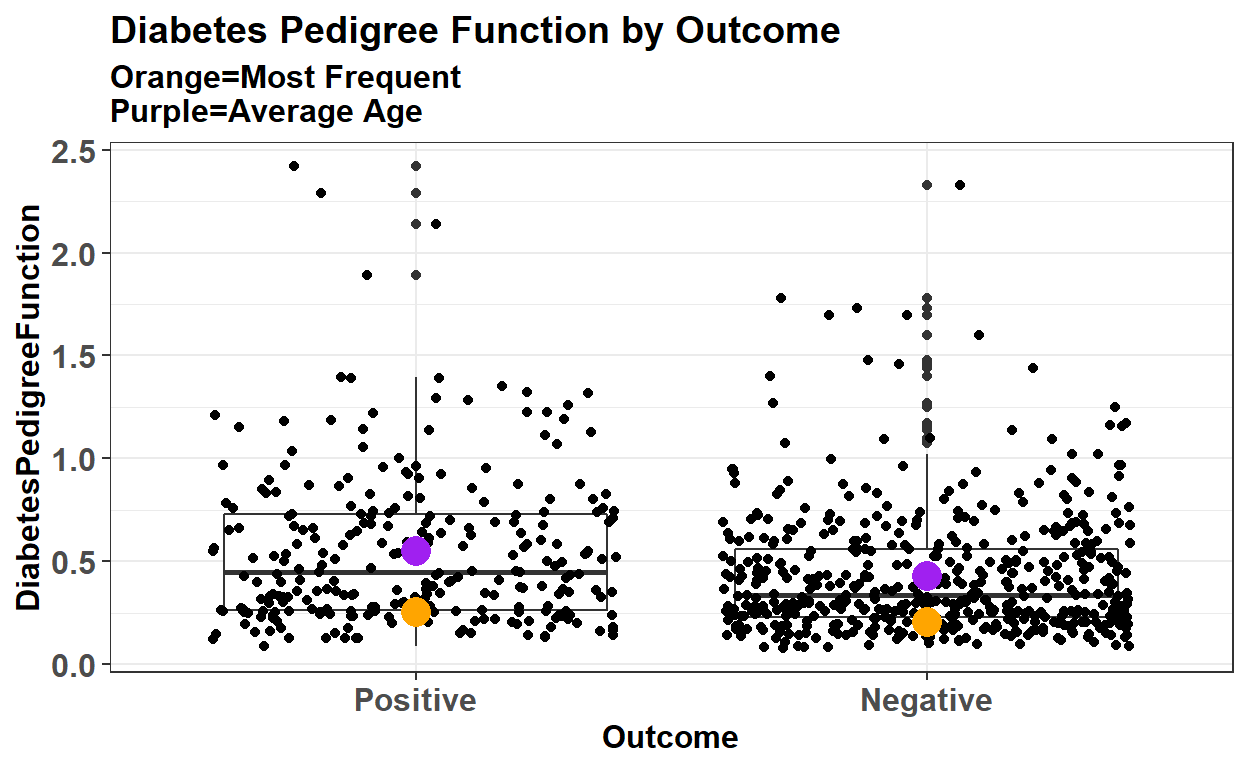
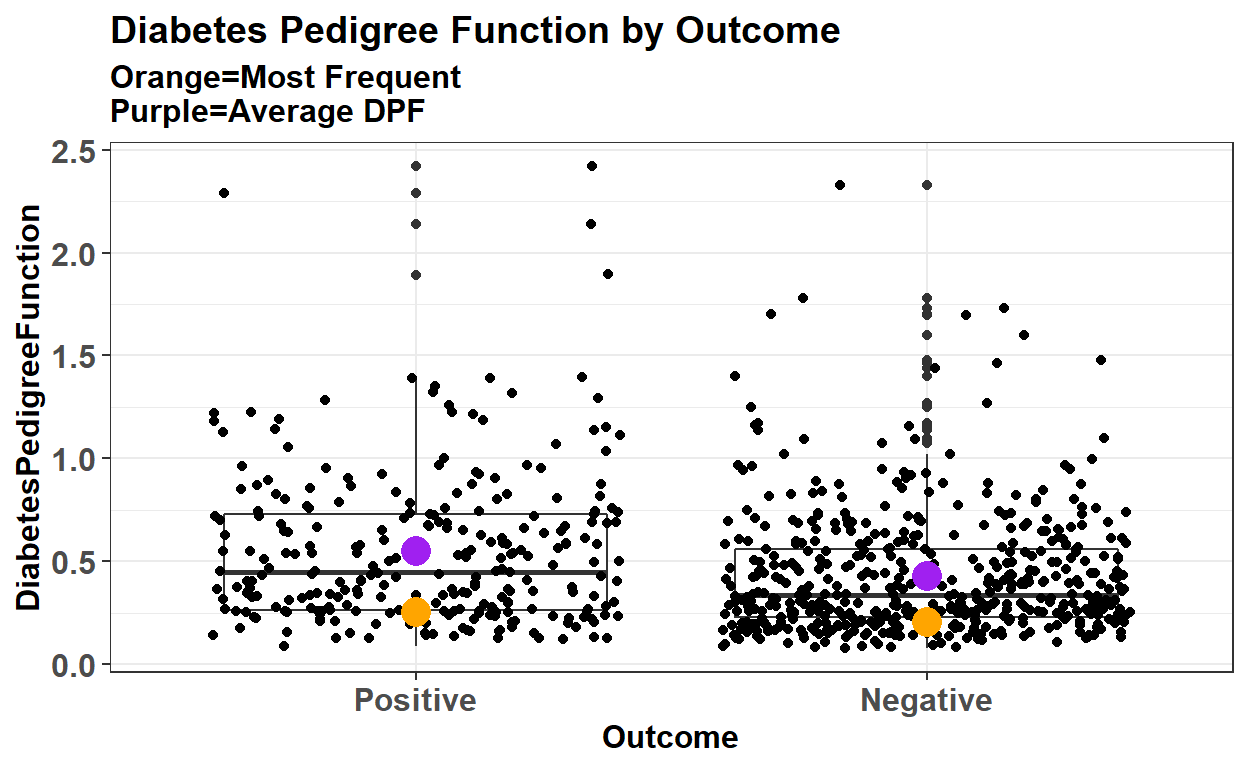
edit
edit code on first post

diff --git a/docs/posts/2018-11-06-diabetes-among-the-pima-indians-an-exploratory-analysis/index.html b/docs/posts/2018-11-06-diabetes-among-the-pima-indians-an-exploratory-analysis/index.html
@@ -21,7 +21,7 @@
   <!--radix_placeholder_meta_tags-->
 <title>Easy Data Science with R and Python: Diabetes Among The Pima Indians: An Exploratory Analysis</title>
 
-<meta property="description" itemprop="description" content="In this post we will explore the Pima Indian dataset from the UCI repository. This post will aim to showcase different ways of thinking of your &#10;data. Most novices to data science would rush into data preprocessing and not explore the data properly. The data cleaning stage can be subjective &#10;at times and here I offer my own view and opinons on this dataset"/>
+<meta property="description" itemprop="description" content="In this post we will explore the Pima Indian dataset from the UCI repository. This post will aim to showcase different ways of thinking of your &#10;data. Most novices to data science would rush into data preprocessing and not explore the data properly. The data cleaning stage can be subjective &#10;at times and here I offer my own view and opinions on this dataset"/>
 
 <link rel="canonical" href="https://aslm123.github.io/easydsrp/posts/2018-11-06-diabetes-among-the-pima-indians-an-exploratory-analysis/"/>
 <link rel="license" href="https://creativecommons.org/licenses/by/4.0/"/>
@@ -34,7 +34,7 @@
 <!--  https://developers.facebook.com/docs/sharing/webmasters#markup -->
 <meta property="og:title" content="Easy Data Science with R and Python: Diabetes Among The Pima Indians: An Exploratory Analysis"/>
 <meta property="og:type" content="article"/>
-<meta property="og:description" content="In this post we will explore the Pima Indian dataset from the UCI repository. This post will aim to showcase different ways of thinking of your &#10;data. Most novices to data science would rush into data preprocessing and not explore the data properly. The data cleaning stage can be subjective &#10;at times and here I offer my own view and opinons on this dataset"/>
+<meta property="og:description" content="In this post we will explore the Pima Indian dataset from the UCI repository. This post will aim to showcase different ways of thinking of your &#10;data. Most novices to data science would rush into data preprocessing and not explore the data properly. The data cleaning stage can be subjective &#10;at times and here I offer my own view and opinions on this dataset"/>
 <meta property="og:url" content="https://aslm123.github.io/easydsrp/posts/2018-11-06-diabetes-among-the-pima-indians-an-exploratory-analysis/"/>
 <meta property="og:image" content="https://aslm123.github.io/easydsrp/posts/2018-11-06-diabetes-among-the-pima-indians-an-exploratory-analysis/diabetes-among-the-pima-indians-an-exploratory-analysis_files/figure-html5/unnamed-chunk-14-1.png"/>
 <meta property="og:image:width" content="1248"/>
@@ -45,7 +45,7 @@
 <!--  https://dev.twitter.com/cards/types/summary -->
 <meta property="twitter:card" content="summary_large_image"/>
 <meta property="twitter:title" content="Easy Data Science with R and Python: Diabetes Among The Pima Indians: An Exploratory Analysis"/>
-<meta property="twitter:description" content="In this post we will explore the Pima Indian dataset from the UCI repository. This post will aim to showcase different ways of thinking of your &#10;data. Most novices to data science would rush into data preprocessing and not explore the data properly. The data cleaning stage can be subjective &#10;at times and here I offer my own view and opinons on this dataset"/>
+<meta property="twitter:description" content="In this post we will explore the Pima Indian dataset from the UCI repository. This post will aim to showcase different ways of thinking of your &#10;data. Most novices to data science would rush into data preprocessing and not explore the data properly. The data cleaning stage can be subjective &#10;at times and here I offer my own view and opinions on this dataset"/>
 <meta property="twitter:url" content="https://aslm123.github.io/easydsrp/posts/2018-11-06-diabetes-among-the-pima-indians-an-exploratory-analysis/"/>
 <meta property="twitter:image" content="https://aslm123.github.io/easydsrp/posts/2018-11-06-diabetes-among-the-pima-indians-an-exploratory-analysis/diabetes-among-the-pima-indians-an-exploratory-analysis_files/figure-html5/unnamed-chunk-14-1.png"/>
 <meta property="twitter:image:width" content="1248"/>
@@ -62,7 +62,7 @@
   <!--radix_placeholder_rmarkdown_metadata-->
 
 <script type="text/json" id="radix-rmarkdown-metadata">
-{"type":"list","attributes":{"names":{"type":"character","attributes":{},"value":["title","description","author","date","output","categories","repository_url","creative_commons","citation_url","canonical_url"]}},"value":[{"type":"character","attributes":{},"value":["Diabetes Among The Pima Indians: An Exploratory Analysis"]},{"type":"character","attributes":{},"value":["In this post we will explore the Pima Indian dataset from the UCI repository. This post will aim to showcase different ways of thinking of your \ndata. Most novices to data science would rush into data preprocessing and not explore the data properly. The data cleaning stage can be subjective \nat times and here I offer my own view and opinons on this dataset"]},{"type":"list","attributes":{},"value":[{"type":"list","attributes":{"names":{"type":"character","attributes":{},"value":["name","url"]}},"value":[{"type":"character","attributes":{},"value":["Asel Mendis"]},{"type":"character","attributes":{},"value":["https://www.linkedin.com/in/asel-mendis-a620399b/"]}]}]},{"type":"character","attributes":{},"value":["11-06-2018"]},{"type":"list","attributes":{"names":{"type":"character","attributes":{},"value":["radix::radix_article"]}},"value":[{"type":"list","attributes":{"names":{"type":"character","attributes":{},"value":["self_contained"]}},"value":[{"type":"logical","attributes":{},"value":[false]}]}]},{"type":"character","attributes":{},"value":["Data Preprocessing","Exploratory Analysis","R"]},{"type":"character","attributes":{},"value":["https://github.com/aslm123/easydsrp"]},{"type":"character","attributes":{},"value":["CC BY"]},{"type":"character","attributes":{},"value":["https://aslm123.github.io/easydsrp/posts/2018-11-06-diabetes-among-the-pima-indians-an-exploratory-analysis/"]},{"type":"character","attributes":{},"value":["https://aslm123.github.io/easydsrp/posts/2018-11-06-diabetes-among-the-pima-indians-an-exploratory-analysis/"]}]}
+{"type":"list","attributes":{"names":{"type":"character","attributes":{},"value":["title","description","author","date","output","categories","repository_url","creative_commons","citation_url","canonical_url"]}},"value":[{"type":"character","attributes":{},"value":["Diabetes Among The Pima Indians: An Exploratory Analysis"]},{"type":"character","attributes":{},"value":["In this post we will explore the Pima Indian dataset from the UCI repository. This post will aim to showcase different ways of thinking of your \ndata. Most novices to data science would rush into data preprocessing and not explore the data properly. The data cleaning stage can be subjective \nat times and here I offer my own view and opinions on this dataset"]},{"type":"list","attributes":{},"value":[{"type":"list","attributes":{"names":{"type":"character","attributes":{},"value":["name","url"]}},"value":[{"type":"character","attributes":{},"value":["Asel Mendis"]},{"type":"character","attributes":{},"value":["https://www.linkedin.com/in/asel-mendis-a620399b/"]}]}]},{"type":"character","attributes":{},"value":["11-06-2018"]},{"type":"list","attributes":{"names":{"type":"character","attributes":{},"value":["radix::radix_article"]}},"value":[{"type":"list","attributes":{"names":{"type":"character","attributes":{},"value":["self_contained"]}},"value":[{"type":"logical","attributes":{},"value":[false]}]}]},{"type":"character","attributes":{},"value":["Data Preprocessing","Exploratory Analysis","R"]},{"type":"character","attributes":{},"value":["https://github.com/aslm123/easydsrp"]},{"type":"character","attributes":{},"value":["CC BY"]},{"type":"character","attributes":{},"value":["https://aslm123.github.io/easydsrp/posts/2018-11-06-diabetes-among-the-pima-indians-an-exploratory-analysis/"]},{"type":"character","attributes":{},"value":["https://aslm123.github.io/easydsrp/posts/2018-11-06-diabetes-among-the-pima-indians-an-exploratory-analysis/"]}]}
 </script>
 <!--/radix_placeholder_rmarkdown_metadata-->
   
@@ -1296,7 +1296,7 @@ gtag('config', 'UA-129818281-1');
 <!--radix_placeholder_front_matter-->
 
 <script id="distill-front-matter" type="text/json">
-{"title":"Diabetes Among The Pima Indians: An Exploratory Analysis","description":"In this post we will explore the Pima Indian dataset from the UCI repository. This post will aim to showcase different ways of thinking of your \ndata. Most novices to data science would rush into data preprocessing and not explore the data properly. The data cleaning stage can be subjective \nat times and here I offer my own view and opinons on this dataset","authors":[{"author":"Asel Mendis","authorURL":"https://www.linkedin.com/in/asel-mendis-a620399b/","affiliation":"&nbsp;","affiliationURL":"#"}],"publishedDate":"2018-11-06T00:00:00.000+11:00","citationText":"Mendis, 2018"}
+{"title":"Diabetes Among The Pima Indians: An Exploratory Analysis","description":"In this post we will explore the Pima Indian dataset from the UCI repository. This post will aim to showcase different ways of thinking of your \ndata. Most novices to data science would rush into data preprocessing and not explore the data properly. The data cleaning stage can be subjective \nat times and here I offer my own view and opinions on this dataset","authors":[{"author":"Asel Mendis","authorURL":"https://www.linkedin.com/in/asel-mendis-a620399b/","affiliation":"&nbsp;","affiliationURL":"#"}],"publishedDate":"2018-11-06T00:00:00.000+11:00","citationText":"Mendis, 2018"}
 </script>
 
 <!--/radix_placeholder_front_matter-->
@@ -1334,7 +1334,7 @@ gtag('config', 'UA-129818281-1');
 
 <div class="d-title">
 <h1>Diabetes Among The Pima Indians: An Exploratory Analysis</h1>
-<p>In this post we will explore the Pima Indian dataset from the UCI repository. This post will aim to showcase different ways of thinking of your data. Most novices to data science would rush into data preprocessing and not explore the data properly. The data cleaning stage can be subjective at times and here I offer my own view and opinons on this dataset</p>
+<p>In this post we will explore the Pima Indian dataset from the UCI repository. This post will aim to showcase different ways of thinking of your data. Most novices to data science would rush into data preprocessing and not explore the data properly. The data cleaning stage can be subjective at times and here I offer my own view and opinions on this dataset</p>
 </div>
 
 <div class="d-byline">
@@ -1630,7 +1630,7 @@ summary(Diabetes$Pregnancies)</code></pre>
 111 657 </code></pre>
 </div>
 <h3 id="insulin">Insulin</h3>
-<p>50% of the rows in Insulin have 0 values. Lets look at it in a practical sense. There are times when the body produces little to no insulin which is a sign on Type 1 Diabetes. But I doubt this is the case in this instance. Insulin is such an important variable concerning Diabetes, but when a variable is just rife with missing values you have to do something about it. You can just impute the values, but this is medical data and half of the values are missing. It would not be appropriate to just impute the rows with it mean in my opininon. That’s why no matter how important it is, it has to be <strong>REMOVED</strong>. This is one of those times where you need to make a tough call.</p>
+<p>50% of the rows in Insulin have 0 values. Lets look at it in a practical sense. There are times when the body produces little to no insulin which is a sign on Type 1 Diabetes. But I doubt this is the case in this instance. Insulin is such an important variable concerning Diabetes, but when a variable is just rife with missing values you have to do something about it. You can just impute the values, but this is medical data and half of the values are missing. It would not be appropriate to just impute the rows with its mean in my opinion. That’s why no matter how important it is, it has to be <strong>REMOVED</strong>. This is one of those times where you need to make a tough call.</p>
 <div class="layout-chunk" data-layout="l-body">
 <pre class="r"><code>
 Diabetes$Insulin &lt;- NULL
@@ -1761,7 +1761,7 @@ str(mode)</code></pre>
 <pre><code>
 function (v)  
  - attr(*, &quot;srcref&quot;)= &#39;srcref&#39; int [1:8] 1 9 4 1 9 1 1 4
-  ..- attr(*, &quot;srcfile&quot;)=Classes &#39;srcfilecopy&#39;, &#39;srcfile&#39; &lt;environment: 0x000000002087cd70&gt; </code></pre>
+  ..- attr(*, &quot;srcfile&quot;)=Classes &#39;srcfilecopy&#39;, &#39;srcfile&#39; &lt;environment: 0x000000002089fb78&gt; </code></pre>
 </div>
 <h1 id="visualisation-of-variables">Visualisation of variables</h1>
 <h2 id="numeric-variables">Numeric Variables</h2>
@@ -1799,7 +1799,7 @@ ggplot(Diabetes, aes(y=DiabetesPedigreeFunction, x=Outcome)) +
       stat_summary(fun.y=mean, colour=&quot;purple&quot;, 
                   geom=&quot;point&quot;, shape=16, size=5) +
       ggtitle(label=&quot;Diabetes Pedigree Function by Outcome&quot;,
-              subtitle = &quot;Orange=Most Frequent\nPurple=Average Age&quot;) +
+              subtitle = &quot;Orange=Most Frequent\nPurple=Average DPF&quot;) +
       theme(axis.text.x = element_text(face=&quot;bold&quot;,size=12),
             axis.text.y = element_text(face=&quot;bold&quot;,size=12),
             title = element_text(face=&quot;bold&quot;,size=12),
@@ -1862,7 +1862,7 @@ Yes
 </tbody>
 </table>
 </div>
-<p>It seems that having a pregnancy does not necessarily increase your chances of having diabetes as the same proportion of women who had or didnt have diabetes had at least one pregnancy.</p>
+<p>It seems that having a pregnancy does not necessarily increase your chances of having diabetes as the same proportion of women who had or didn’t have diabetes had at least one pregnancy.</p>
 <h3 id="obesity">Obesity</h3>
 <div class="layout-chunk" data-layout="l-body">
 

diff --git a/_posts/2018-11-06-diabetes-among-the-pima-indians-an-exploratory-analysis/diabetes-among-the-pima-indians-an-exploratory-analysis.html b/_posts/2018-11-06-diabetes-among-the-pima-indians-an-exploratory-analysis/diabetes-among-the-pima-indians-an-exploratory-analysis.html
@@ -21,7 +21,7 @@
   <!--radix_placeholder_meta_tags-->
   <title>Diabetes Among The Pima Indians: An Exploratory Analysis</title>
   
-  <meta property="description" itemprop="description" content="In this post we will explore the Pima Indian dataset from the UCI repository. This post will aim to showcase different ways of thinking of your &#10;data. Most novices to data science would rush into data preprocessing and not explore the data properly. The data cleaning stage can be subjective &#10;at times and here I offer my own view and opinons on this dataset"/>
+  <meta property="description" itemprop="description" content="In this post we will explore the Pima Indian dataset from the UCI repository. This post will aim to showcase different ways of thinking of your &#10;data. Most novices to data science would rush into data preprocessing and not explore the data properly. The data cleaning stage can be subjective &#10;at times and here I offer my own view and opinions on this dataset"/>
   
   <link rel="license" href="https://creativecommons.org/licenses/by/4.0/"/>
   
@@ -33,19 +33,19 @@
   <!--  https://developers.facebook.com/docs/sharing/webmasters#markup -->
   <meta property="og:title" content="Diabetes Among The Pima Indians: An Exploratory Analysis"/>
   <meta property="og:type" content="article"/>
-  <meta property="og:description" content="In this post we will explore the Pima Indian dataset from the UCI repository. This post will aim to showcase different ways of thinking of your &#10;data. Most novices to data science would rush into data preprocessing and not explore the data properly. The data cleaning stage can be subjective &#10;at times and here I offer my own view and opinons on this dataset"/>
+  <meta property="og:description" content="In this post we will explore the Pima Indian dataset from the UCI repository. This post will aim to showcase different ways of thinking of your &#10;data. Most novices to data science would rush into data preprocessing and not explore the data properly. The data cleaning stage can be subjective &#10;at times and here I offer my own view and opinions on this dataset"/>
   <meta property="og:locale" content="en_US"/>
   
   <!--  https://dev.twitter.com/cards/types/summary -->
   <meta property="twitter:card" content="summary"/>
   <meta property="twitter:title" content="Diabetes Among The Pima Indians: An Exploratory Analysis"/>
-  <meta property="twitter:description" content="In this post we will explore the Pima Indian dataset from the UCI repository. This post will aim to showcase different ways of thinking of your &#10;data. Most novices to data science would rush into data preprocessing and not explore the data properly. The data cleaning stage can be subjective &#10;at times and here I offer my own view and opinons on this dataset"/>
+  <meta property="twitter:description" content="In this post we will explore the Pima Indian dataset from the UCI repository. This post will aim to showcase different ways of thinking of your &#10;data. Most novices to data science would rush into data preprocessing and not explore the data properly. The data cleaning stage can be subjective &#10;at times and here I offer my own view and opinions on this dataset"/>
   
   <!--/radix_placeholder_meta_tags-->
   <!--radix_placeholder_rmarkdown_metadata-->
   
   <script type="text/json" id="radix-rmarkdown-metadata">
-  {"type":"list","attributes":{"names":{"type":"character","attributes":{},"value":["title","description","author","date","output","categories","repository_url","creative_commons"]}},"value":[{"type":"character","attributes":{},"value":["Diabetes Among The Pima Indians: An Exploratory Analysis"]},{"type":"character","attributes":{},"value":["In this post we will explore the Pima Indian dataset from the UCI repository. This post will aim to showcase different ways of thinking of your \ndata. Most novices to data science would rush into data preprocessing and not explore the data properly. The data cleaning stage can be subjective \nat times and here I offer my own view and opinons on this dataset\n"]},{"type":"list","attributes":{},"value":[{"type":"list","attributes":{"names":{"type":"character","attributes":{},"value":["name","url"]}},"value":[{"type":"character","attributes":{},"value":["Asel Mendis"]},{"type":"character","attributes":{},"value":["https://www.linkedin.com/in/asel-mendis-a620399b/"]}]}]},{"type":"character","attributes":{},"value":["11-06-2018"]},{"type":"list","attributes":{"names":{"type":"character","attributes":{},"value":["radix::radix_article"]}},"value":[{"type":"list","attributes":{"names":{"type":"character","attributes":{},"value":["self_contained"]}},"value":[{"type":"logical","attributes":{},"value":[false]}]}]},{"type":"character","attributes":{},"value":["Data Preprocessing","Exploratory Analysis","R"]},{"type":"character","attributes":{},"value":["https://github.com/aslm123/easydsrp"]},{"type":"character","attributes":{},"value":["CC BY"]}]}
+  {"type":"list","attributes":{"names":{"type":"character","attributes":{},"value":["title","description","author","date","output","categories","repository_url","creative_commons"]}},"value":[{"type":"character","attributes":{},"value":["Diabetes Among The Pima Indians: An Exploratory Analysis"]},{"type":"character","attributes":{},"value":["In this post we will explore the Pima Indian dataset from the UCI repository. This post will aim to showcase different ways of thinking of your \ndata. Most novices to data science would rush into data preprocessing and not explore the data properly. The data cleaning stage can be subjective \nat times and here I offer my own view and opinions on this dataset\n"]},{"type":"list","attributes":{},"value":[{"type":"list","attributes":{"names":{"type":"character","attributes":{},"value":["name","url"]}},"value":[{"type":"character","attributes":{},"value":["Asel Mendis"]},{"type":"character","attributes":{},"value":["https://www.linkedin.com/in/asel-mendis-a620399b/"]}]}]},{"type":"character","attributes":{},"value":["11-06-2018"]},{"type":"list","attributes":{"names":{"type":"character","attributes":{},"value":["radix::radix_article"]}},"value":[{"type":"list","attributes":{"names":{"type":"character","attributes":{},"value":["self_contained"]}},"value":[{"type":"logical","attributes":{},"value":[false]}]}]},{"type":"character","attributes":{},"value":["Data Preprocessing","Exploratory Analysis","R"]},{"type":"character","attributes":{},"value":["https://github.com/aslm123/easydsrp"]},{"type":"character","attributes":{},"value":["CC BY"]}]}
   </script>
   <!--/radix_placeholder_rmarkdown_metadata-->
   
@@ -934,7 +934,7 @@
 <!--radix_placeholder_front_matter-->
 
 <script id="distill-front-matter" type="text/json">
-{"title":"Diabetes Among The Pima Indians: An Exploratory Analysis","description":"In this post we will explore the Pima Indian dataset from the UCI repository. This post will aim to showcase different ways of thinking of your \ndata. Most novices to data science would rush into data preprocessing and not explore the data properly. The data cleaning stage can be subjective \nat times and here I offer my own view and opinons on this dataset","authors":[{"author":"Asel Mendis","authorURL":"https://www.linkedin.com/in/asel-mendis-a620399b/","affiliation":"&nbsp;","affiliationURL":"#"}],"publishedDate":"2018-11-06T00:00:00.000+11:00","citationText":"Mendis, 2018"}
+{"title":"Diabetes Among The Pima Indians: An Exploratory Analysis","description":"In this post we will explore the Pima Indian dataset from the UCI repository. This post will aim to showcase different ways of thinking of your \ndata. Most novices to data science would rush into data preprocessing and not explore the data properly. The data cleaning stage can be subjective \nat times and here I offer my own view and opinions on this dataset","authors":[{"author":"Asel Mendis","authorURL":"https://www.linkedin.com/in/asel-mendis-a620399b/","affiliation":"&nbsp;","affiliationURL":"#"}],"publishedDate":"2018-11-06T00:00:00.000+11:00","citationText":"Mendis, 2018"}
 </script>
 
 <!--/radix_placeholder_front_matter-->
@@ -945,7 +945,7 @@
 
 <div class="d-title">
 <h1>Diabetes Among The Pima Indians: An Exploratory Analysis</h1>
-<p>In this post we will explore the Pima Indian dataset from the UCI repository. This post will aim to showcase different ways of thinking of your data. Most novices to data science would rush into data preprocessing and not explore the data properly. The data cleaning stage can be subjective at times and here I offer my own view and opinons on this dataset</p>
+<p>In this post we will explore the Pima Indian dataset from the UCI repository. This post will aim to showcase different ways of thinking of your data. Most novices to data science would rush into data preprocessing and not explore the data properly. The data cleaning stage can be subjective at times and here I offer my own view and opinions on this dataset</p>
 </div>
 
 <div class="d-byline">
@@ -1241,7 +1241,7 @@ summary(Diabetes$Pregnancies)</code></pre>
 111 657 </code></pre>
 </div>
 <h3 id="insulin">Insulin</h3>
-<p>50% of the rows in Insulin have 0 values. Lets look at it in a practical sense. There are times when the body produces little to no insulin which is a sign on Type 1 Diabetes. But I doubt this is the case in this instance. Insulin is such an important variable concerning Diabetes, but when a variable is just rife with missing values you have to do something about it. You can just impute the values, but this is medical data and half of the values are missing. It would not be appropriate to just impute the rows with it mean in my opininon. That’s why no matter how important it is, it has to be <strong>REMOVED</strong>. This is one of those times where you need to make a tough call.</p>
+<p>50% of the rows in Insulin have 0 values. Lets look at it in a practical sense. There are times when the body produces little to no insulin which is a sign on Type 1 Diabetes. But I doubt this is the case in this instance. Insulin is such an important variable concerning Diabetes, but when a variable is just rife with missing values you have to do something about it. You can just impute the values, but this is medical data and half of the values are missing. It would not be appropriate to just impute the rows with its mean in my opinion. That’s why no matter how important it is, it has to be <strong>REMOVED</strong>. This is one of those times where you need to make a tough call.</p>
 <div class="layout-chunk" data-layout="l-body">
 <pre class="r"><code>
 Diabetes$Insulin &lt;- NULL
@@ -1372,7 +1372,7 @@ str(mode)</code></pre>
 <pre><code>
 function (v)  
  - attr(*, &quot;srcref&quot;)= &#39;srcref&#39; int [1:8] 1 9 4 1 9 1 1 4
-  ..- attr(*, &quot;srcfile&quot;)=Classes &#39;srcfilecopy&#39;, &#39;srcfile&#39; &lt;environment: 0x000000002087cd70&gt; </code></pre>
+  ..- attr(*, &quot;srcfile&quot;)=Classes &#39;srcfilecopy&#39;, &#39;srcfile&#39; &lt;environment: 0x000000002089fb78&gt; </code></pre>
 </div>
 <h1 id="visualisation-of-variables">Visualisation of variables</h1>
 <h2 id="numeric-variables">Numeric Variables</h2>
@@ -1410,7 +1410,7 @@ ggplot(Diabetes, aes(y=DiabetesPedigreeFunction, x=Outcome)) +
       stat_summary(fun.y=mean, colour=&quot;purple&quot;, 
                   geom=&quot;point&quot;, shape=16, size=5) +
       ggtitle(label=&quot;Diabetes Pedigree Function by Outcome&quot;,
-              subtitle = &quot;Orange=Most Frequent\nPurple=Average Age&quot;) +
+              subtitle = &quot;Orange=Most Frequent\nPurple=Average DPF&quot;) +
       theme(axis.text.x = element_text(face=&quot;bold&quot;,size=12),
             axis.text.y = element_text(face=&quot;bold&quot;,size=12),
             title = element_text(face=&quot;bold&quot;,size=12),
@@ -1473,7 +1473,7 @@ Yes
 </tbody>
 </table>
 </div>
-<p>It seems that having a pregnancy does not necessarily increase your chances of having diabetes as the same proportion of women who had or didnt have diabetes had at least one pregnancy.</p>
+<p>It seems that having a pregnancy does not necessarily increase your chances of having diabetes as the same proportion of women who had or didn’t have diabetes had at least one pregnancy.</p>
 <h3 id="obesity">Obesity</h3>
 <div class="layout-chunk" data-layout="l-body">
 

diff --git a/docs/index.html b/docs/index.html
@@ -1652,7 +1652,7 @@ function init_posts_list() {
 <h2>Diabetes Among The Pima Indians: An Exploratory Analysis</h2>
 <p>In this post we will explore the Pima Indian dataset from the UCI repository. This post will aim to showcase different ways of thinking of your 
 data. Most novices to data science would rush into data preprocessing and not explore the data properly. The data cleaning stage can be subjective 
-at times and here I offer my own view and opinons on this dataset</p>
+at times and here I offer my own view and opinions on this dataset</p>
 </div>
 </a>
 </div>
